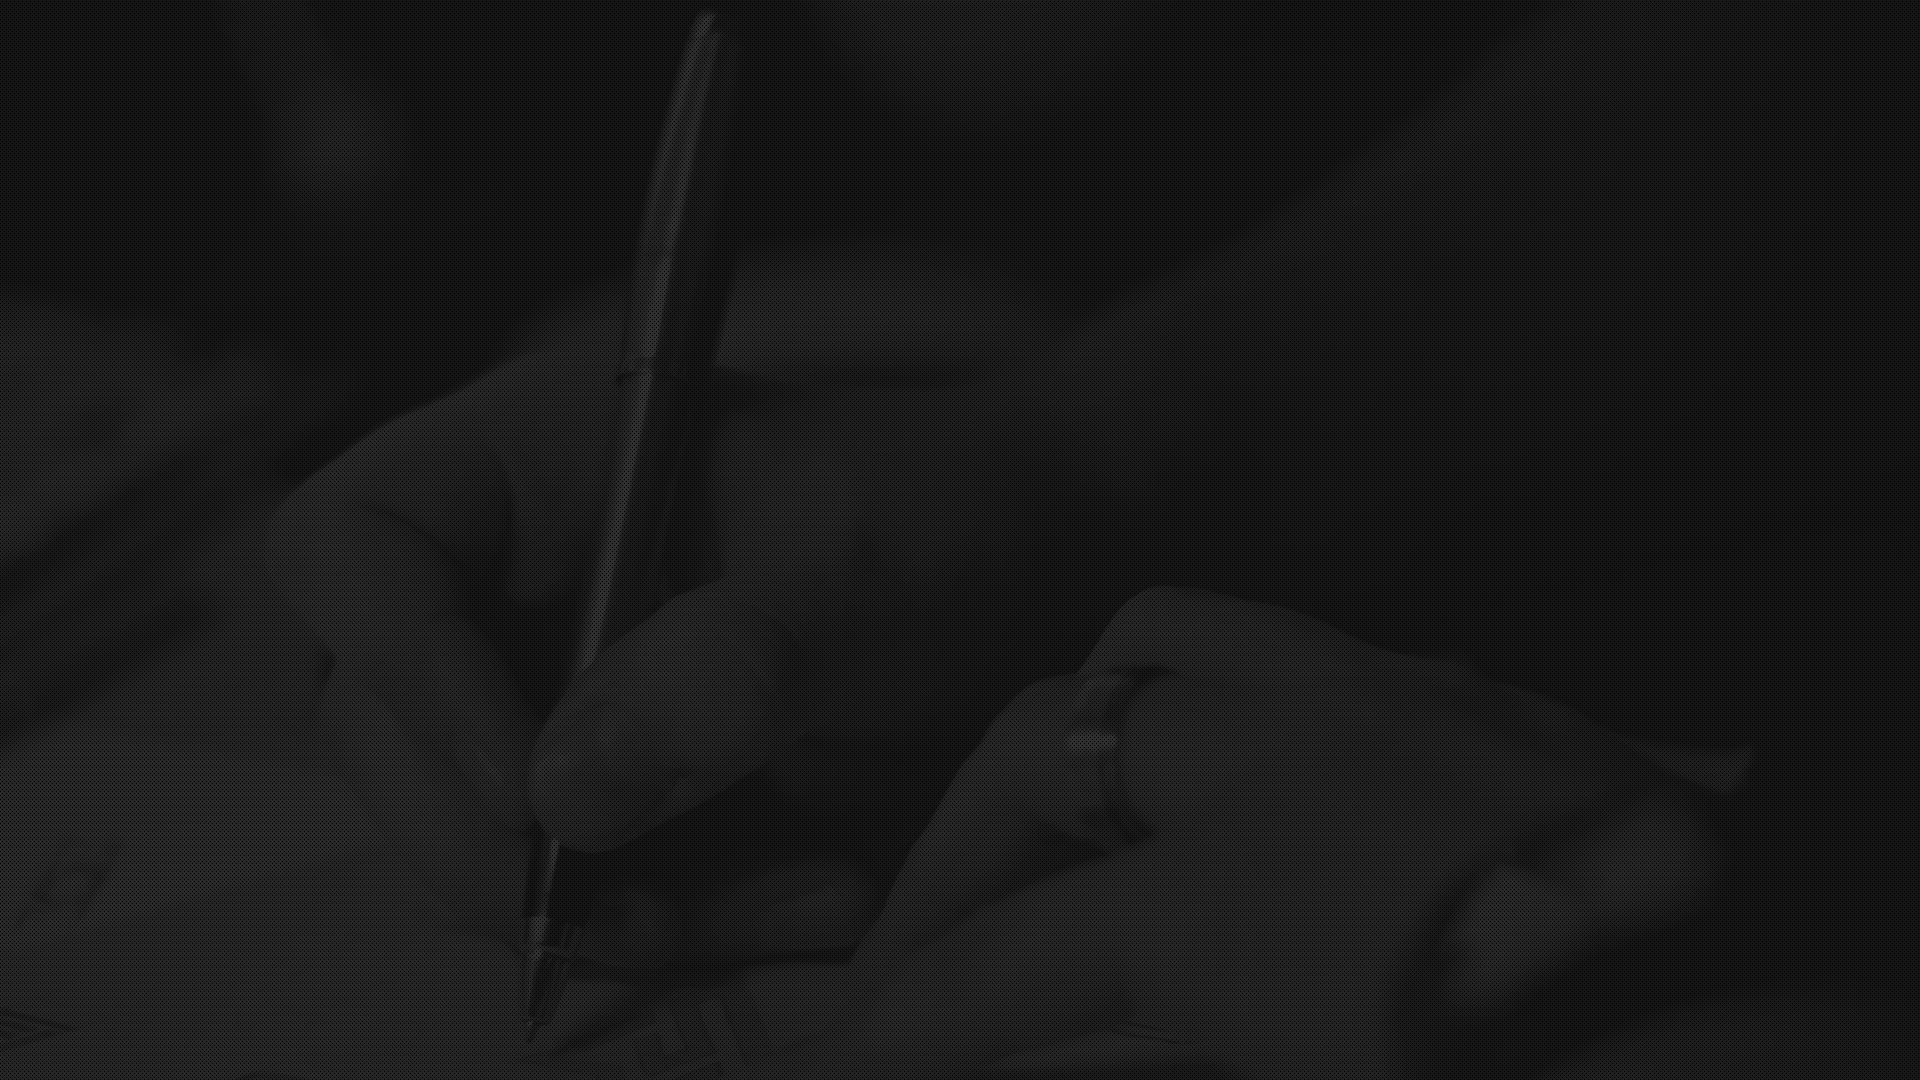
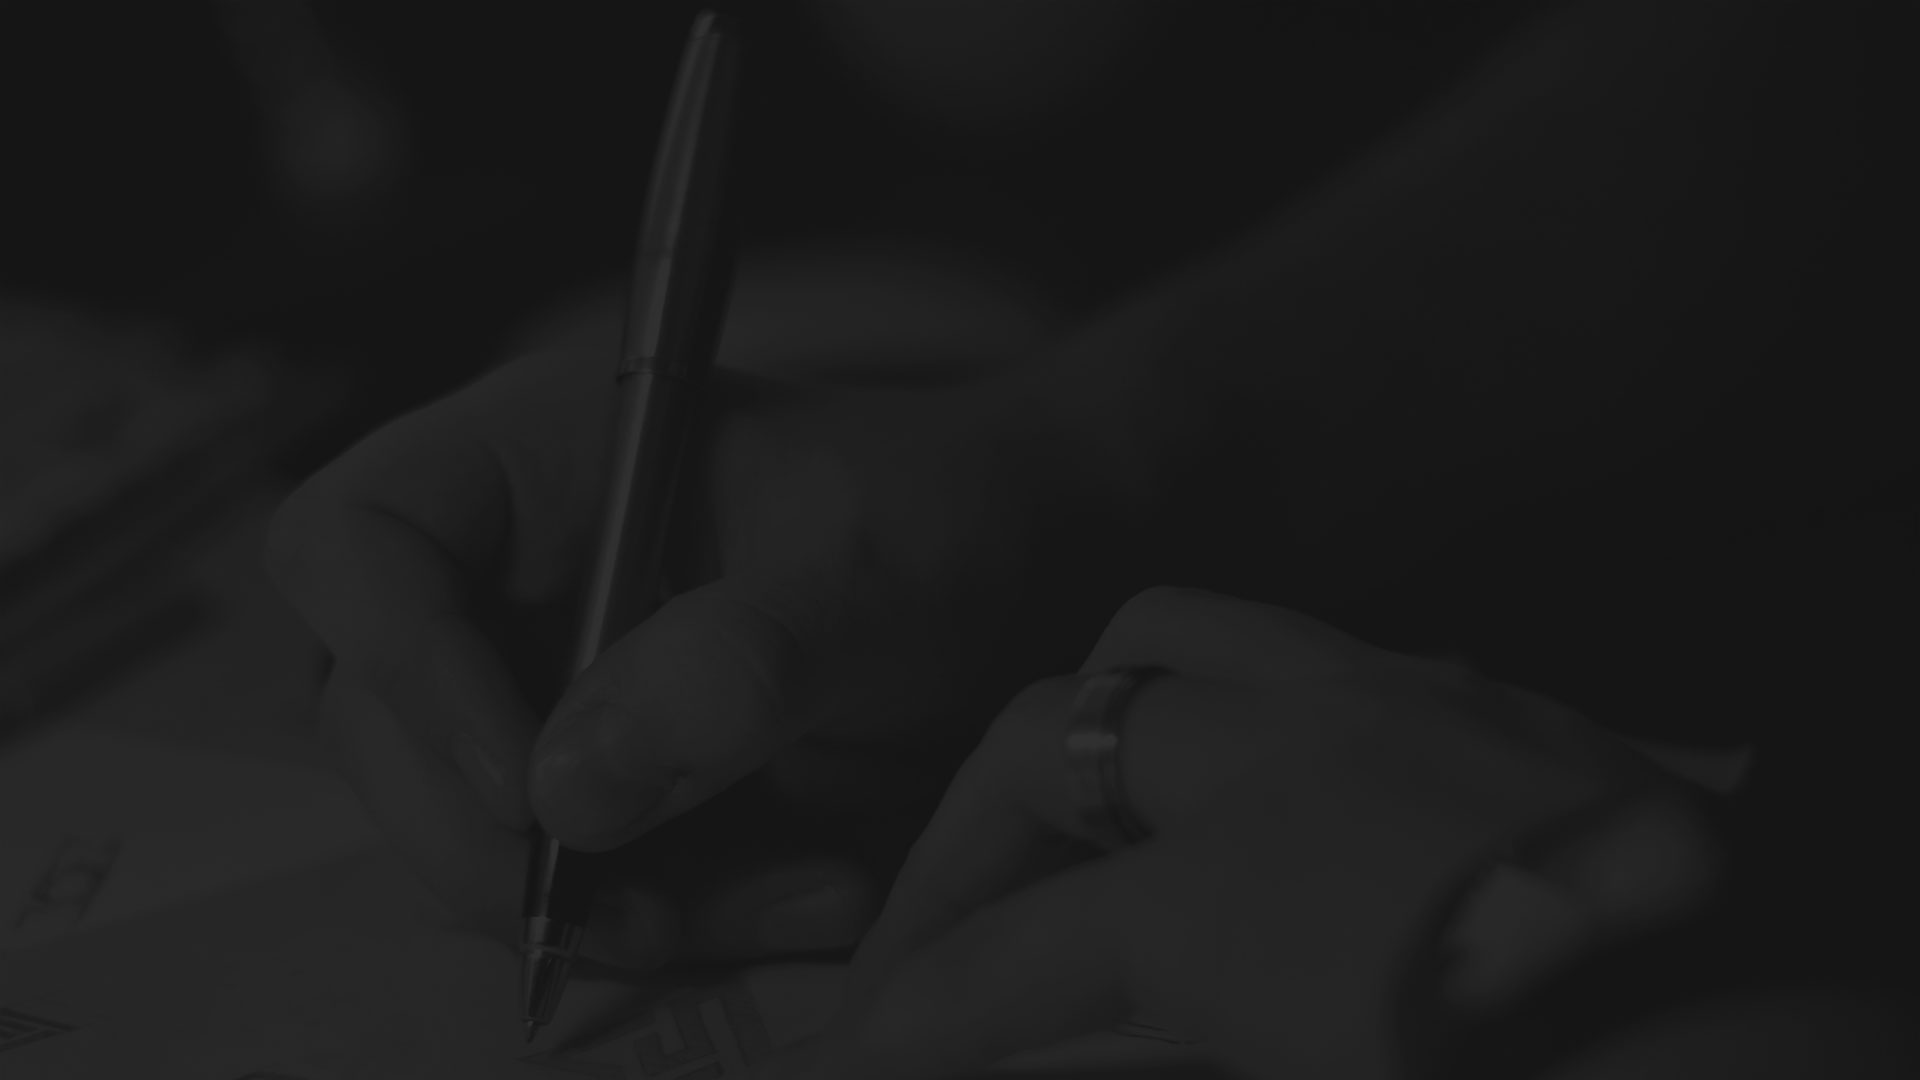
gh-pages: background improved

diff --git a/index.html b/index.html
@@ -13,36 +13,48 @@
 
 <body class="page">
 
+<div class="page__mask">
+
     <div class="page__content">
         <div class="broken">
-            <img class="broken__logo" width="66" height="122" src="st/i/logo.png"/>
+            <img class="broken__logo" width="66" height="122"
+                 src="st/i/logo.png"/>
 
             <h1 class="broken__what">Сайт пока сломан</h1>
 
             <em class="broken__who">Меня зовут Сергей Майнер, я
-                графический дизайнер,<br /> живу и работаю в Ярославле.</em>
+                графический дизайнер,<br/> живу и работаю в Ярославле.</em>
 
             <div class="broken__why">Я сломал свой сайт, чтобы сделать себе
-                новый.<br /> Можете пока почитать мой <a
-                        class="broken__link" href="http://www.sergeymayner.com/blog/">блог</a> и посмотреть мои
-                <a class="broken__link" href="http://srgmayner.tumblr.com">старые работы</a>.</div>
+                новый.<br/> Можете пока почитать мой <a
+                        class="broken__link"
+                        href="http://www.sergeymayner.com/blog/">блог</a> и
+                посмотреть мои
+                <a class="broken__link" href="http://srgmayner.tumblr.com">старые
+                    работы</a>.
+            </div>
 
             <div class="broken__toolbox">
                 <ul class="toolbox">
                     <li class="toolbox__item toolbox__item_type_twitter">
-                        <a href="https://twitter.com/sergeymayner" class="toolbox__link"></a>
-                    </li><li class="toolbox__item toolbox__item_type_behance">
-                    <a href="https://behance.net/sergeymayner" class="toolbox__link"></a>
-                </li><li class="toolbox__item toolbox__item_type_pinterest">
-                    <a href="https://pinterest.com/sergeymayner" class="toolbox__link"></a>
-                </li>
+                        <a href="https://twitter.com/sergeymayner"
+                           class="toolbox__link"></a>
+                    </li>
+                    <li class="toolbox__item toolbox__item_type_behance">
+                        <a href="https://behance.net/sergeymayner"
+                           class="toolbox__link"></a>
+                    </li>
+                    <li class="toolbox__item toolbox__item_type_pinterest">
+                        <a href="https://pinterest.com/sergeymayner"
+                           class="toolbox__link"></a>
+                    </li>
                 </ul>
             </div>
         </div>
     </div>
 
     <div class="rod"></div>
-
+</div>
 <script type="text/javascript" src="st/js/index.js"></script>
 
 </body>

diff --git a/st/css/index.css b/st/css/index.css
@@ -15,6 +15,11 @@ html, body {
     background-size: cover;
 }
 
+.page__mask {
+    height: 100%;
+    background: url(../i/background__dots.png);
+}
+
 .page__content {
     display: inline-block;
     vertical-align: middle;
